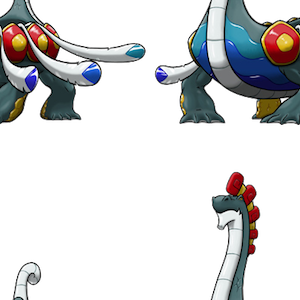
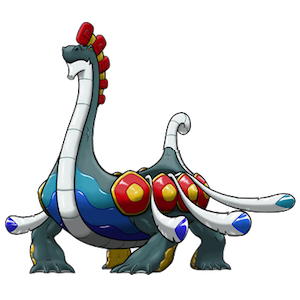
Use img instead of div for pokemon and item images
This has a bunch of benefits: it's semantically neater, we don't have
to modify images from other sources (e.g. CaP), and we no longer have
to allow unsafe-inline CSS in the CSP.

Images can be converted using mogrify -roll +50%+50% *.png (using the
mogrify tool from ImageMagick).

diff --git a/assets/css/paste.css b/assets/css/paste.css
@@ -13,22 +13,26 @@ article {
 	flex-flow: row wrap;
 }
 
-div.img-pokemon {
+div.img {
 	position: relative;
-	width: 150px;
-	height: 150px;
 	margin: 15px;
-	background-size: 150px;
-	background-position: -75px -75px;
+	user-select: none;
+	-webkit-user-select: none;
+	-moz-user-select: none;
+	-ms-user-select: none;
 }
 
-div.img-item {
+img.img-pokemon {
+	width: 150px;
+	height: 150px;
+}
+
+img.img-item {
 	position: absolute;
 	right: 0;
 	bottom: 0;
 	width: 40px;
 	height: 40px;
-	background-size: 40px;
 }
 
 pre {
